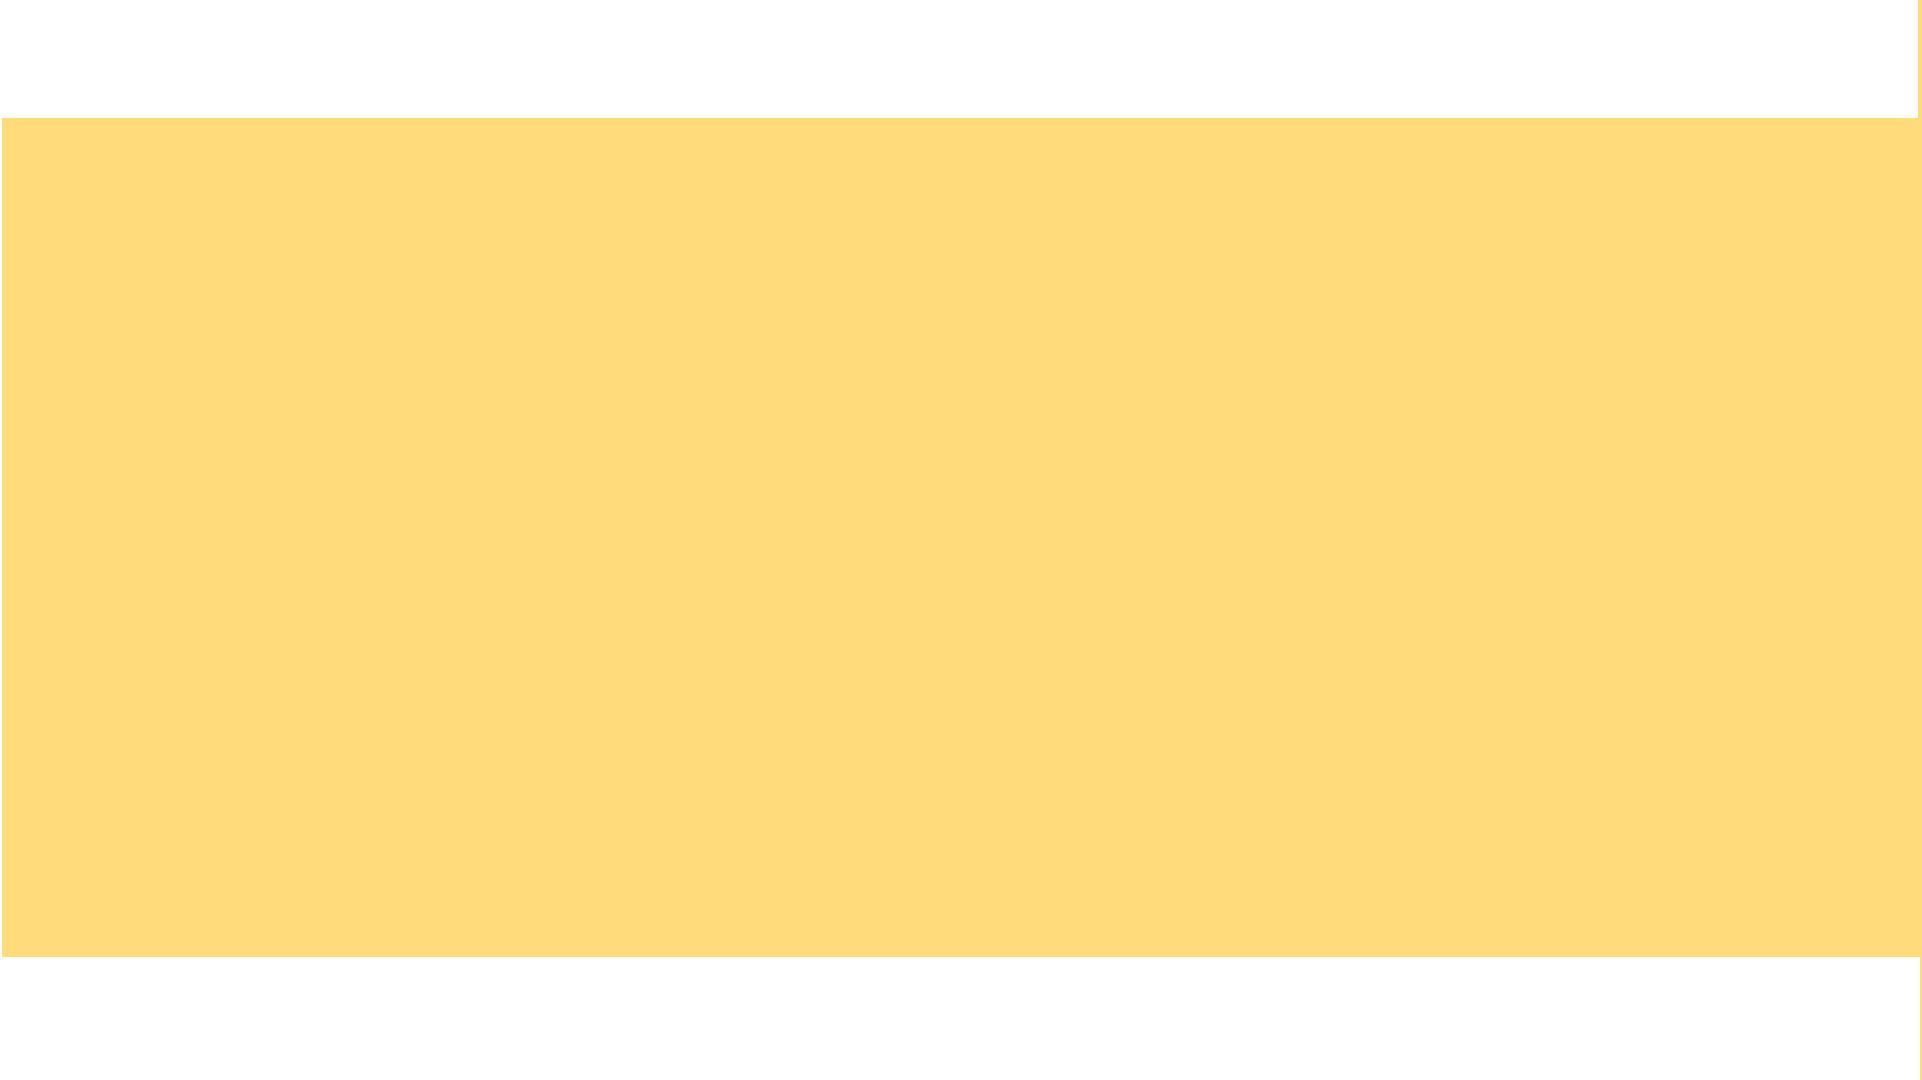
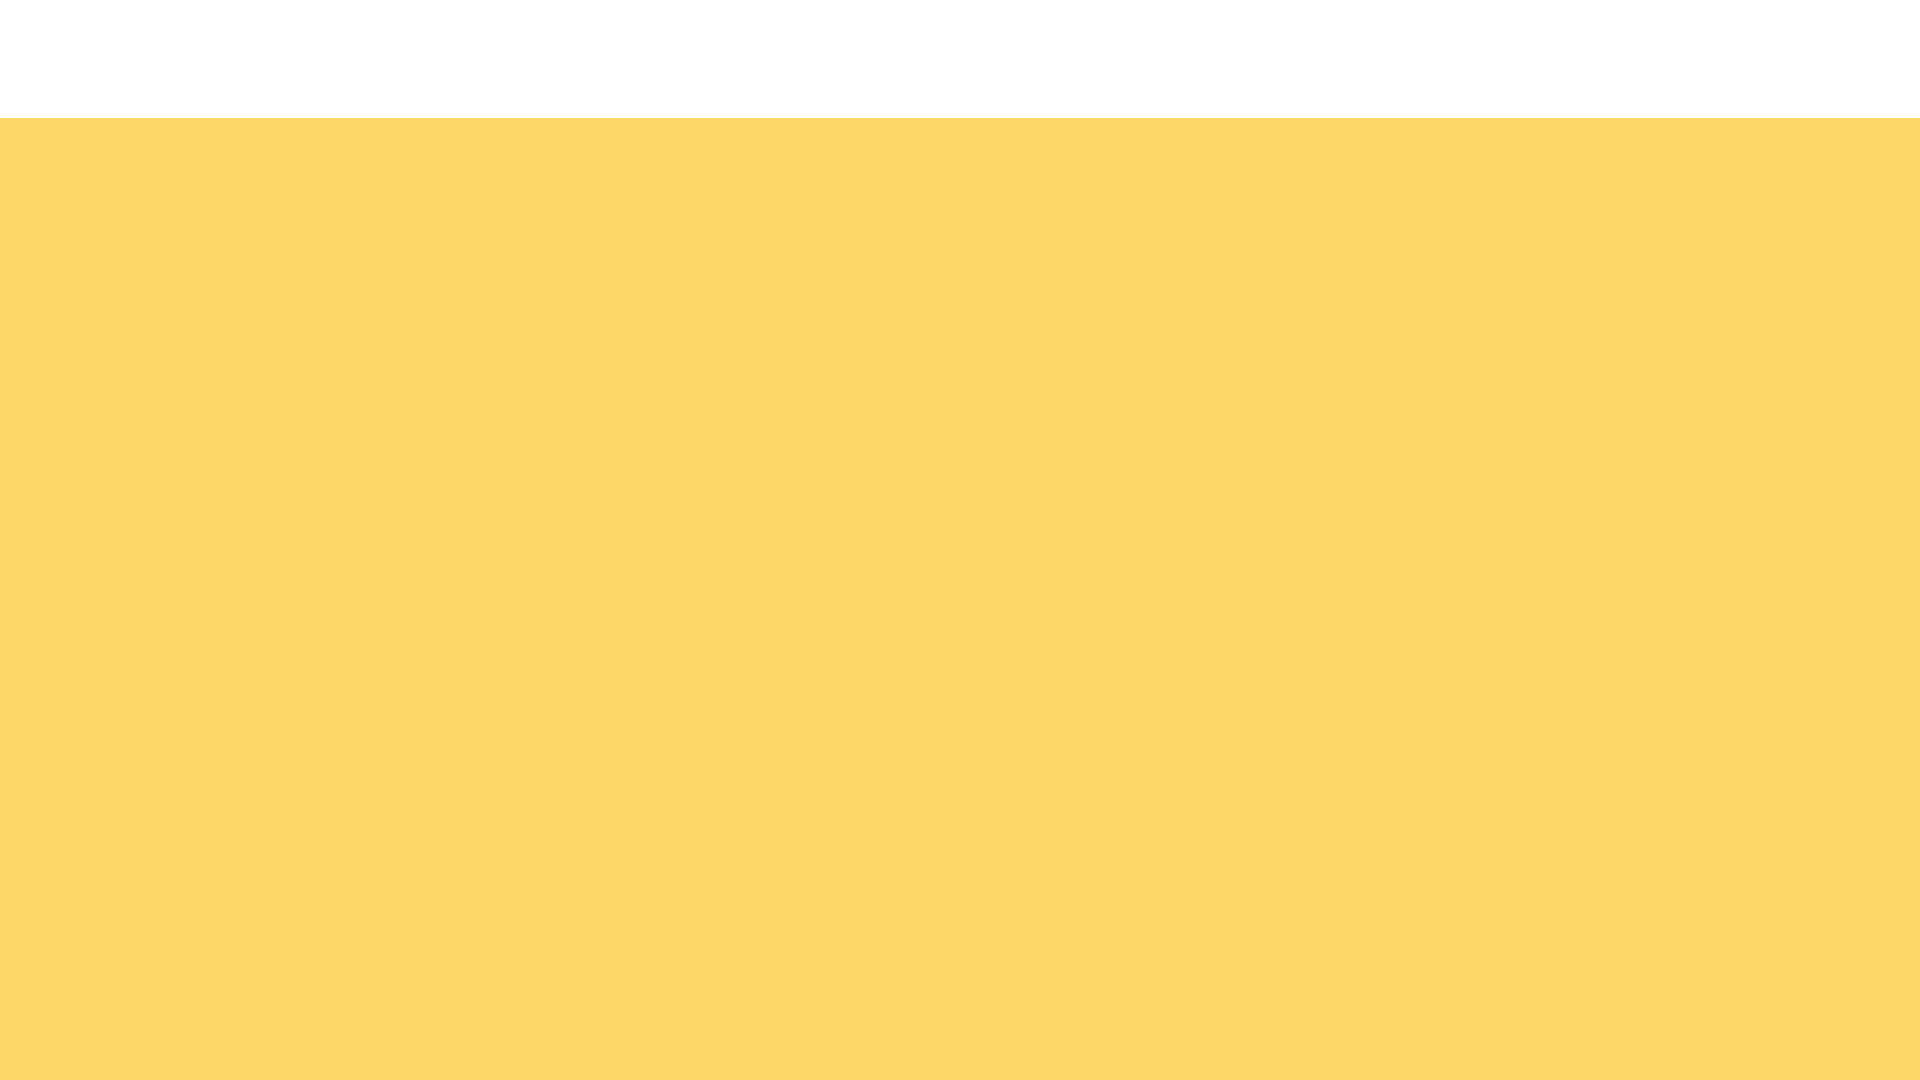
added responsive for highlights and fixed background repeating

Changed region(s): [[0.0, 0.8861, 1.0, 1.0]]

diff --git a/stylehigh.css b/stylehigh.css
@@ -1,12 +1,14 @@
 
 body{
     background-image: url(images/highbackground.png);
-    background-color: blanchedalmond;
+    background-color:#FCD24A;
+    background-repeat: no-repeat;
 }
 
 .highlights{
     display: flex;
     justify-content: center;
+    flex-wrap: wrap;
 
 }
 .food{
